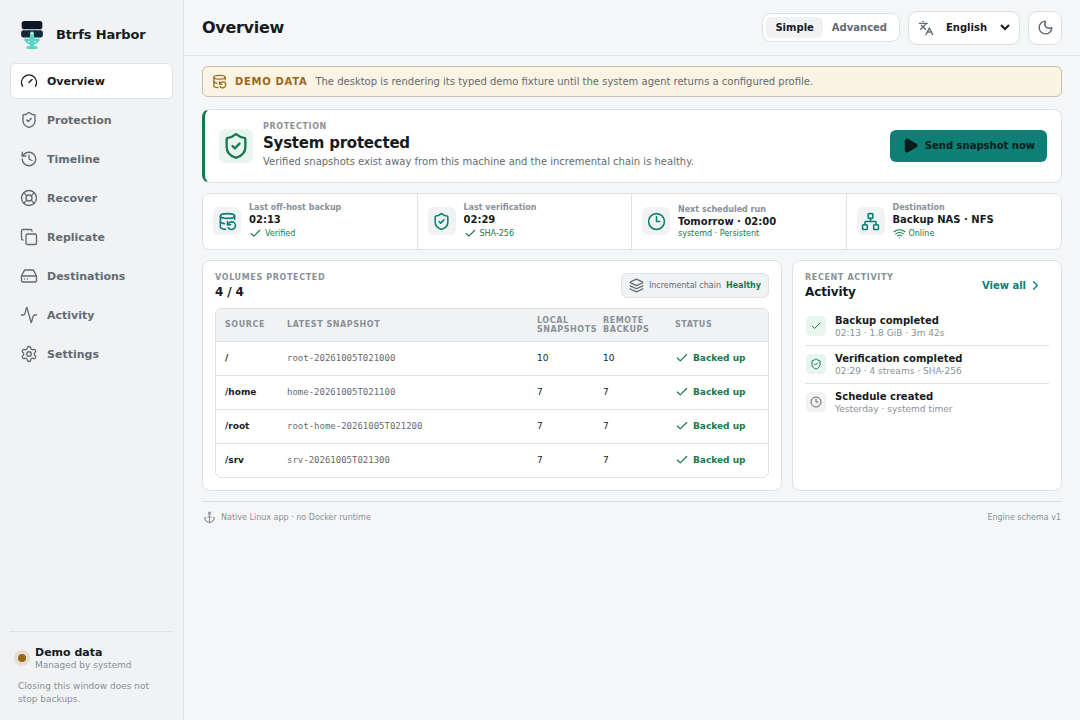
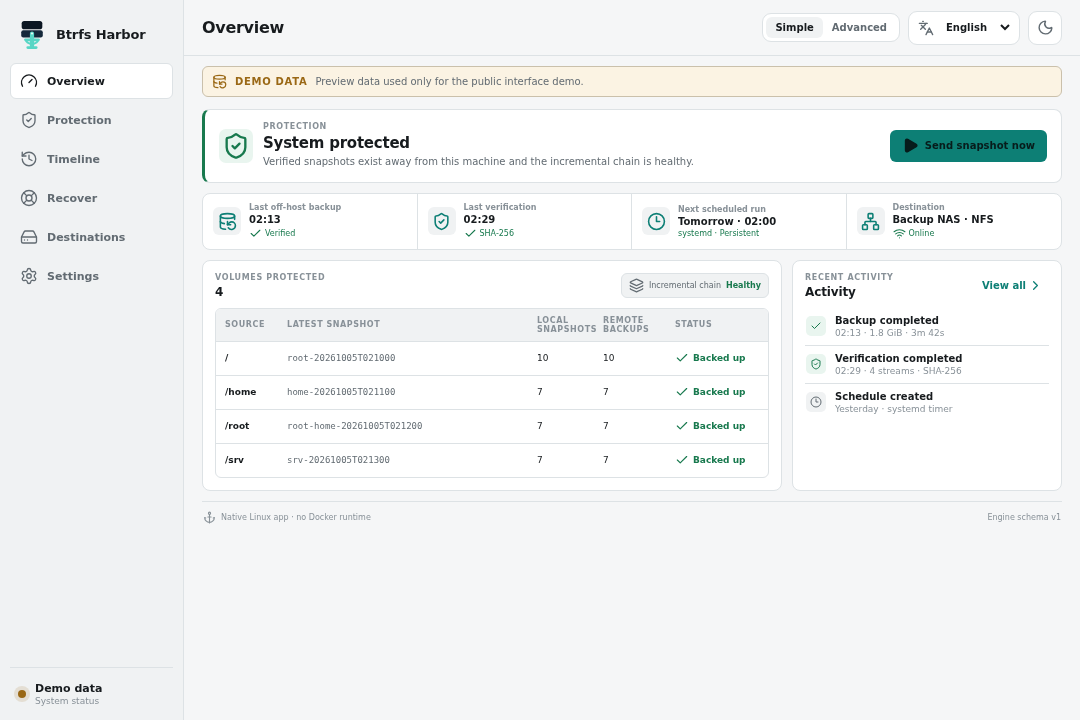
docs: align first-run guide and screenshot

diff --git a/README.fr.md b/README.fr.md
@@ -94,16 +94,16 @@ btrfs-harbor
 
 ## 🛟 Première sauvegarde
 
-1. Ouvre **Protection**.
-2. Crée un profil et sélectionne uniquement les subvolumes Btrfs à conserver.
-3. Choisis une destination. Sur un dossier NFS/SMB déjà monté, Harbor détecte le point de montage actif et l’identité serveur/share.
-4. Choisis rétention, planning et **Vérifier après sauvegarde**.
-5. Enregistre et active le profil.
-6. Lance d’abord une sauvegarde manuelle.
-7. Vérifie dans **Chronologie / Activité** que l’état passe à **SAUVEGARDÉ** puis, si activé, **VÉRIFIÉ**.
-8. Fais un test de restauration en staging avant de considérer le backup comme fiable.
+1. Ouvre Harbor. Il identifie l’ordinateur courant et scanne ses **subvolumes Btrfs montés**.
+2. Vérifie ce qu’Harbor a détecté. Les configurations et snapshots **Snapper** existants sont reconnus ; les snapshots read-only utilisables par `btrfs send` sont indiqués explicitement.
+3. Choisis ce que tu veux protéger. Harbor présélectionne les sources Btrfs persistantes recommandées et masque les montages de type cache/jetable dans la vue simple.
+4. Choisis la destination. Les destinations **NFS/SMB déjà montées** sont proposées automatiquement avec leur vrai point de montage et l’identité serveur/share ; tu peux aussi choisir un autre dossier.
+5. En mode **Simple**, Harbor applique des valeurs sûres : sauvegarde automatique quotidienne à 02:00 et vérification activée. Passe en **Avancé** uniquement si tu veux modifier planning, rétention ou options bas niveau.
+6. Clique **Enregistrer et activer**. Si tu as lancé l’AppImage portable, Harbor installe d’abord l’intégration système complète via polkit, puis applique directement les choix que tu viens de faire.
+7. Lance une première sauvegarde manuelle et vérifie qu’elle passe à **SAUVEGARDÉ** puis **VÉRIFIÉ**.
+8. Fais un test de restauration en staging avant de considérer Harbor comme validé pour des données uniques.
 
-Un profil desktop typique peut protéger `/` via une configuration Snapper existante, plus les subvolumes persistants `/home`, `/root` ou `/srv`, tout en laissant caches et fichiers temporaires jetables.
+Aucune IP de démonstration, aucun nom de machine et aucun chemin source ne sont préremplis dans le premier lancement natif : Harbor utilise la machine sur laquelle il tourne réellement.
 
 ## 🧭 Comprendre les statuts
 

diff --git a/README.md b/README.md
@@ -108,16 +108,16 @@ The same package recipe is intended to become the AUR package after public testi
 
 ## 🛟 Your first backup
 
-1. Open **Protection**.
-2. Create a profile and select the Btrfs subvolumes you actually want to preserve.
-3. Choose a destination. For an already-mounted NFS/SMB folder, Harbor detects the active mount point and server/share identity.
-4. Choose retention, schedule and **Verify after backup**.
-5. Save and enable the profile.
-6. Run one manual backup first.
-7. Open **Timeline / Activity** and confirm the backup is **BACKED UP** and, when enabled, **VERIFIED**.
+1. Open Harbor. It identifies the current computer and scans its mounted **Btrfs subvolumes**.
+2. Review what Harbor found. Existing **Snapper** configurations and snapshots are detected; read-only snapshots that can be used by `btrfs send` are shown explicitly.
+3. Choose what to protect. Harbor preselects recommended persistent Btrfs sources and leaves disposable/cache-style mounts out of the simple view.
+4. Choose a destination. Already-mounted **NFS/SMB** destinations are offered automatically with their real mount point and server/share identity; you can also browse to another destination.
+5. In **Simple** mode, Harbor uses safe defaults: automatic daily backup at 02:00 and verification enabled. Open **Advanced** only when you want to change scheduling, retention or low-level source options.
+6. Click **Save & activate**. If you started from the portable AppImage, Harbor installs the full system integration through polkit first, then applies the choices you just made.
+7. Run one manual backup and confirm the result becomes **BACKED UP** and **VERIFIED**.
 8. Perform a staged restore test before relying on Harbor for unique data.
 
-A typical desktop profile may protect `/` through an existing Snapper root config plus persistent `/home`, `/root` or `/srv` subvolumes, while caches and temporary data remain disposable.
+Nothing is pre-filled with a demo IP, machine name or source path in the native first-run flow: Harbor uses the computer it is actually running on.
 
 ## 🧭 What the status means
 

diff --git a/README.zh-CN.md b/README.zh-CN.md
@@ -94,16 +94,16 @@ btrfs-harbor
 
 ## 🛟 第一次备份
 
-1. 打开 **Protection**。
-2. 创建 profile，并选择真正需要保留的 Btrfs 子卷。
-3. 选择目标目录。对于已挂载的 NFS/SMB，Harbor 会识别实际挂载点和 server/share。
-4. 设置保留策略、计划任务和 **Verify after backup**。
-5. 保存并启用 profile。
-6. 先手动运行一次备份。
-7. 在 **Timeline / Activity** 中确认状态变为 **BACKED UP**，如果启用了校验，还应变为 **VERIFIED**。
-8. 在依赖 Harbor 保存唯一数据之前，先执行一次 staging 恢复测试。
+1. 打开 Harbor。它会识别当前电脑，并扫描已挂载的 **Btrfs 子卷**。
+2. 检查 Harbor 的检测结果。现有 **Snapper** 配置和快照会自动识别；可直接用于 `btrfs send` 的只读快照会明确显示。
+3. 选择需要保护的内容。Harbor 会预选推荐的持久化 Btrfs 来源，并在简单视图中隐藏缓存或临时类挂载。
+4. 选择备份目标。已经挂载的 **NFS/SMB** 会自动显示真实挂载点与 server/share 身份；也可以手动选择其他目标目录。
+5. **简单**模式默认使用安全设置：每天 02:00 自动备份并启用验证。只有需要修改计划、保留策略或底层来源选项时才进入**高级**模式。
+6. 点击 **保存并启用**。如果当前运行的是便携 AppImage，Harbor 会先通过 polkit 安装完整系统集成，然后立即应用刚才的选择。
+7. 先手动运行一次备份，并确认结果变为 **BACKED UP** 和 **VERIFIED**。
+8. 在把 Harbor 用于唯一数据之前，完成一次 staging 恢复测试。
 
-典型桌面配置可以通过现有 Snapper root 配置保护 `/`，再加入 `/home`、`/root` 或 `/srv` 等持久化子卷，而缓存和临时数据可以不备份。
+原生首次启动不会预填任何演示 IP、机器名称或来源路径；Harbor 使用它实际运行所在的电脑。
 
 ## 🧭 状态含义
 
